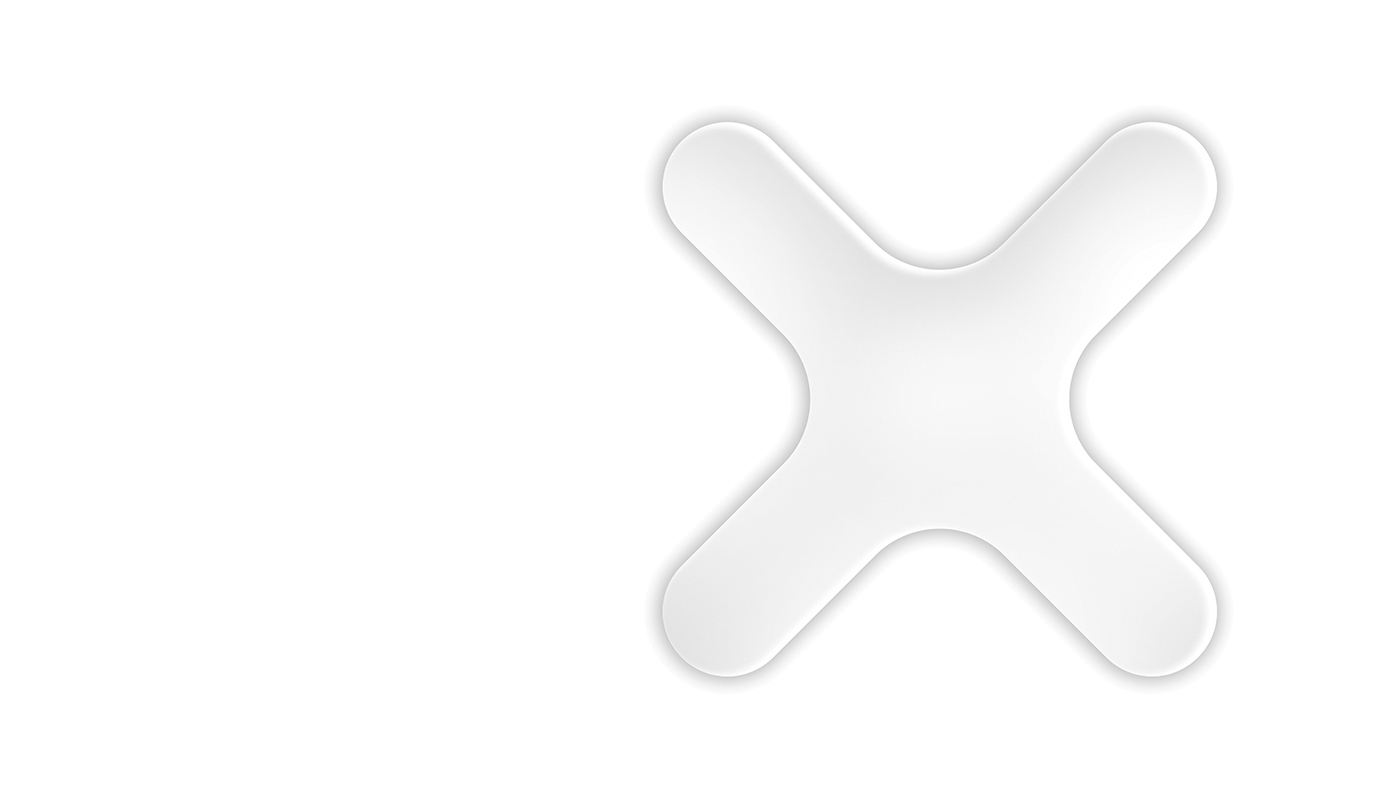
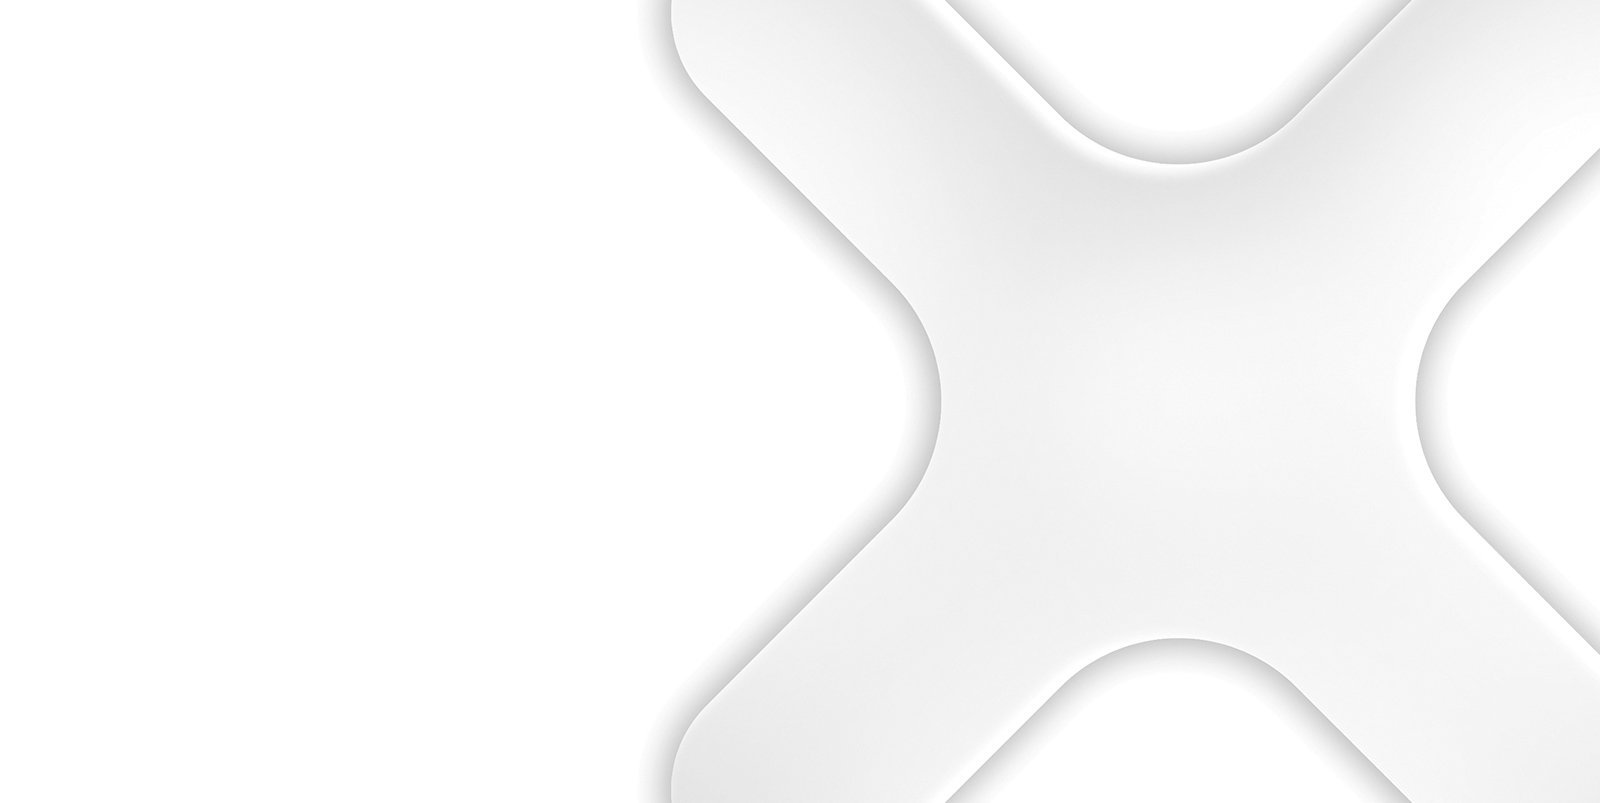
modified template.ftl in order to remove header div. changed bg image. vertical centering of login form.

diff --git a/resources/css/login.css b/resources/css/login.css
@@ -101,6 +101,9 @@ div.kc-logo-text span {
     overflow: visible;
     white-space: nowrap;
     margin-bottom: 100px;
+    margin-left: 10vw;
+    padding-left: 30px;
+    text-align: left;
 }
 
 #kc-header-wrapper {
@@ -121,7 +124,7 @@ div.kc-logo-text span {
 } */
 
 #kc-info {
-    padding-bottom: 200px;
+    /*padding-bottom: 200px;*/
     margin-bottom: -200px;
 }
 
@@ -289,6 +292,7 @@ a.zocial  {
         text-align: left;
         margin-bottom: 40px;
         min-height: 116px;
+        margin-left: 0px;
     }
 
     #kc-header-wrapper {
@@ -382,6 +386,7 @@ a.zocial  {
   border-top: 0;
   box-shadow: 0 0 0;
   margin-left: 10vw;
+  margin-top: 25vh;
 }
 
 @media (max-width: 580px) {
